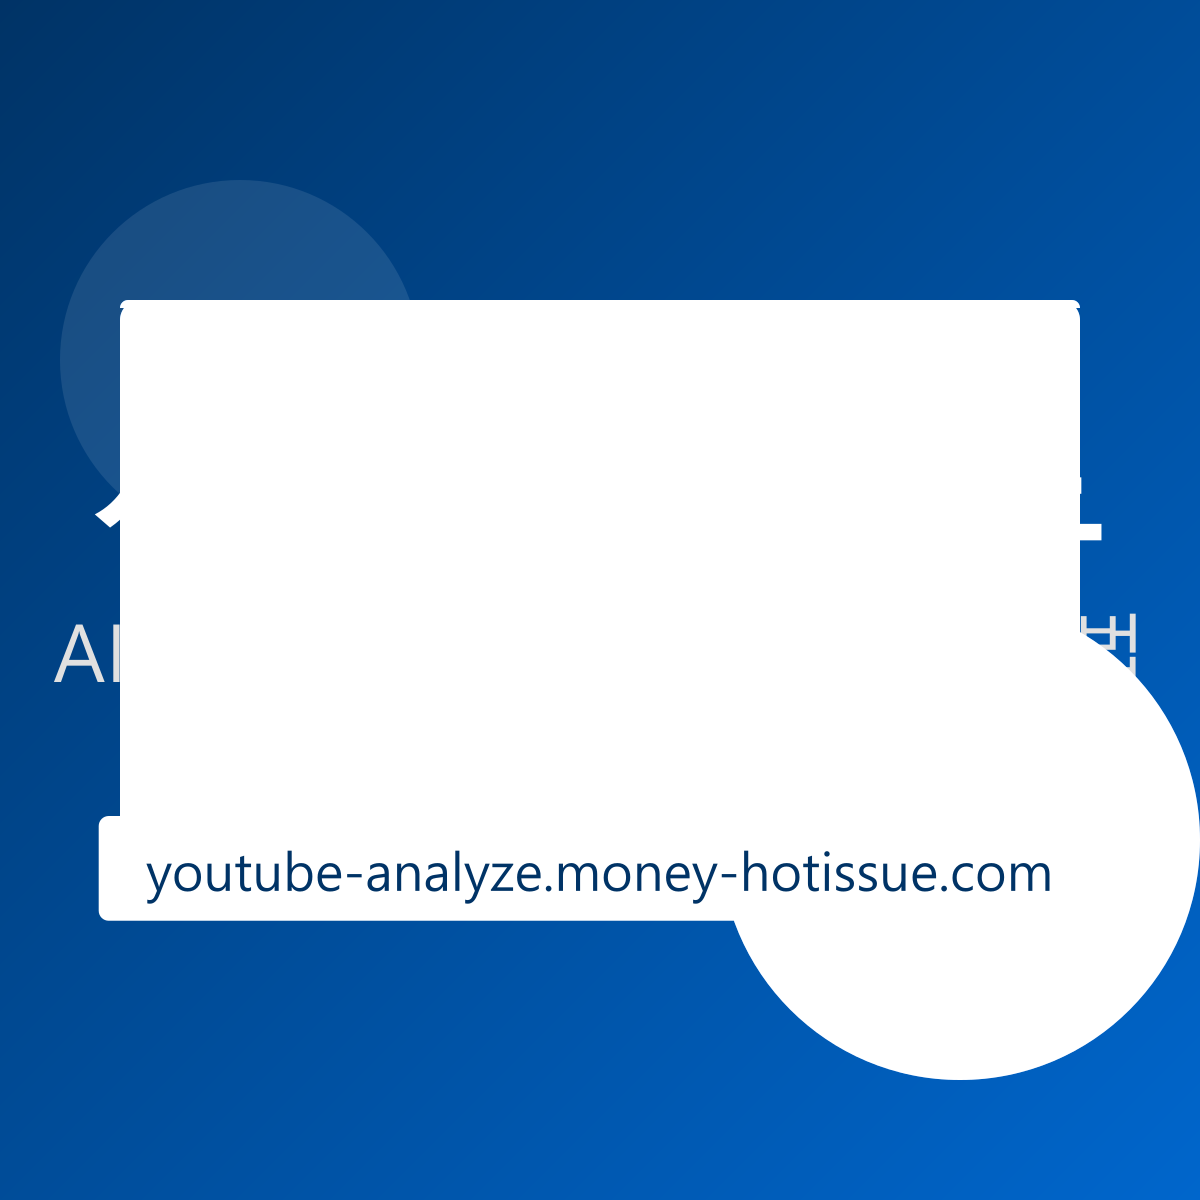
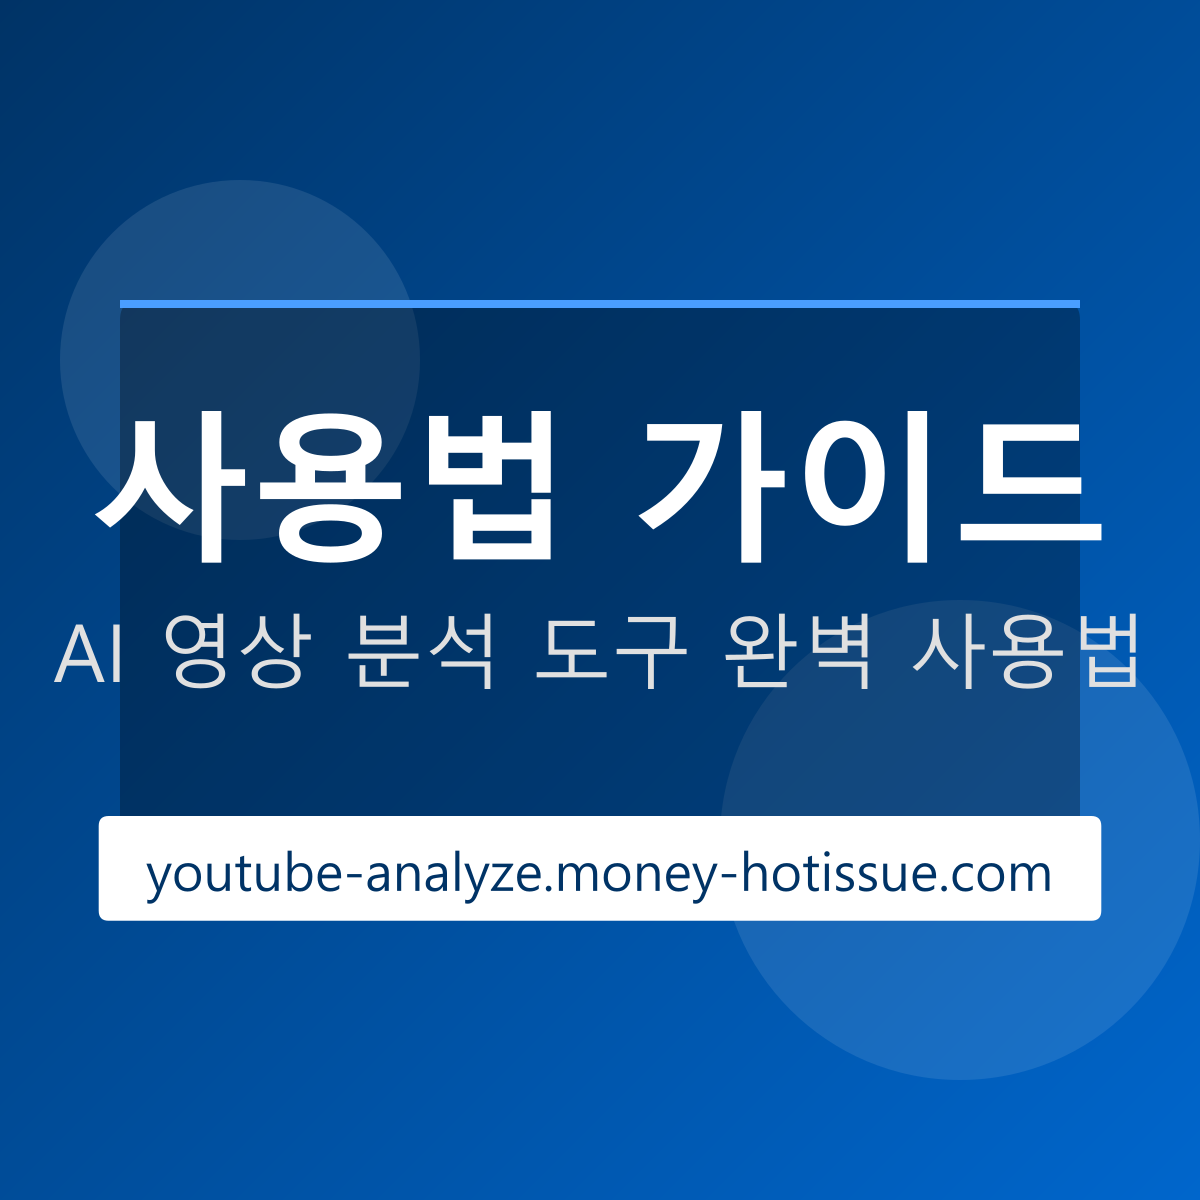
Fix OG images with proper Korean font rendering and rounded corners

diff --git a/scripts/generate_og_image.js b/scripts/generate_og_image.js
@@ -4,12 +4,17 @@ const path = require("path");
 
 // 한글 폰트 등록
 try {
-  registerFont("C:/Windows/Fonts/malgunbd.ttf", {
-    family: "Malgun Gothic Bold",
+  registerFont("C:\\Windows\\Fonts\\malgunbd.ttf", {
+    family: "Malgun Gothic",
+    weight: "bold"
   });
-  registerFont("C:/Windows/Fonts/malgun.ttf", { family: "Malgun Gothic" });
+  registerFont("C:\\Windows\\Fonts\\malgun.ttf", { 
+    family: "Malgun Gothic",
+    weight: "normal"
+  });
+  console.log("✅ 폰트 로드 성공");
 } catch (e) {
-  console.warn("폰트 로드 실패:", e.message);
+  console.error("❌ 폰트 로드 실패:", e.message);
 }
 
 function createOgImage(outputPath, title, subtitle, colors, width, height) {
@@ -34,34 +39,47 @@ function createOgImage(outputPath, title, subtitle, colors, width, height) {
   ctx.fill();
   ctx.globalAlpha = 1.0;
 
-  // 중앙 컨테이너 박스 (약간 투명)
+  // 중앙 컨테이너 박스 (약간 투명) - 둥근 모서리
   ctx.fillStyle = "rgba(0, 0, 0, 0.3)";
-  ctx.roundRect(width * 0.1, height * 0.25, width * 0.8, height * 0.5, 20);
+  const containerRadius = 20;
+  const containerX = width * 0.1;
+  const containerY = height * 0.25;
+  const containerWidth = width * 0.8;
+  const containerHeight = height * 0.5;
+  
+  ctx.beginPath();
+  ctx.moveTo(containerX + containerRadius, containerY);
+  ctx.lineTo(containerX + containerWidth - containerRadius, containerY);
+  ctx.quadraticCurveTo(containerX + containerWidth, containerY, containerX + containerWidth, containerY + containerRadius);
+  ctx.lineTo(containerX + containerWidth, containerY + containerHeight - containerRadius);
+  ctx.quadraticCurveTo(containerX + containerWidth, containerY + containerHeight, containerX + containerWidth - containerRadius, containerY + containerHeight);
+  ctx.lineTo(containerX + containerRadius, containerY + containerHeight);
+  ctx.quadraticCurveTo(containerX, containerY + containerHeight, containerX, containerY + containerHeight - containerRadius);
+  ctx.lineTo(containerX, containerY + containerRadius);
+  ctx.quadraticCurveTo(containerX, containerY, containerX + containerRadius, containerY);
+  ctx.closePath();
   ctx.fill();
 
   // 상단 강조 라인
   ctx.fillStyle = colors.accent;
-  ctx.roundRect(width * 0.1, height * 0.25, width * 0.8, 8, [8, 8, 0, 0]);
-  ctx.fill();
+  ctx.fillRect(width * 0.1, height * 0.25, width * 0.8, 8);
 
   // 타이틀 텍스트
   const scale = Math.min(width, height) / 630;
-  ctx.font = `bold ${Math.floor(
-    85 * scale
-  )}px "Malgun Gothic Bold", "Malgun Gothic", sans-serif`;
+  ctx.font = `bold ${Math.floor(85 * scale)}px "Malgun Gothic"`;
   ctx.fillStyle = "#ffffff";
   ctx.textAlign = "center";
   ctx.textBaseline = "middle";
   ctx.fillText(title, width / 2, height * 0.4);
 
   // 서브타이틀 텍스트
-  ctx.font = `${Math.floor(42 * scale)}px "Malgun Gothic", sans-serif`;
+  ctx.font = `${Math.floor(42 * scale)}px "Malgun Gothic"`;
   ctx.fillStyle = "#e0e0e0";
   ctx.fillText(subtitle, width / 2, height * 0.54);
 
   // 도메인 박스
   const domain = "youtube-analyze.money-hotissue.com";
-  ctx.font = `${Math.floor(28 * scale)}px "Malgun Gothic", sans-serif`;
+  ctx.font = `${Math.floor(28 * scale)}px "Malgun Gothic"`;
   const domainWidth = ctx.measureText(domain).width;
   const boxPadding = 25 * scale;
   const boxX = (width - domainWidth) / 2 - boxPadding;
@@ -69,9 +87,20 @@ function createOgImage(outputPath, title, subtitle, colors, width, height) {
   const boxWidth = domainWidth + boxPadding * 2;
   const boxHeight = 55 * scale;
 
-  // 도메인 배경 박스
+  // 도메인 배경 박스 (둥근 모서리)
   ctx.fillStyle = "#ffffff";
-  ctx.roundRect(boxX, boxY, boxWidth, boxHeight, 10);
+  const domainRadius = 10;
+  ctx.beginPath();
+  ctx.moveTo(boxX + domainRadius, boxY);
+  ctx.lineTo(boxX + boxWidth - domainRadius, boxY);
+  ctx.quadraticCurveTo(boxX + boxWidth, boxY, boxX + boxWidth, boxY + domainRadius);
+  ctx.lineTo(boxX + boxWidth, boxY + boxHeight - domainRadius);
+  ctx.quadraticCurveTo(boxX + boxWidth, boxY + boxHeight, boxX + boxWidth - domainRadius, boxY + boxHeight);
+  ctx.lineTo(boxX + domainRadius, boxY + boxHeight);
+  ctx.quadraticCurveTo(boxX, boxY + boxHeight, boxX, boxY + boxHeight - domainRadius);
+  ctx.lineTo(boxX, boxY + domainRadius);
+  ctx.quadraticCurveTo(boxX, boxY, boxX + domainRadius, boxY);
+  ctx.closePath();
   ctx.fill();
 
   // 도메인 텍스트
